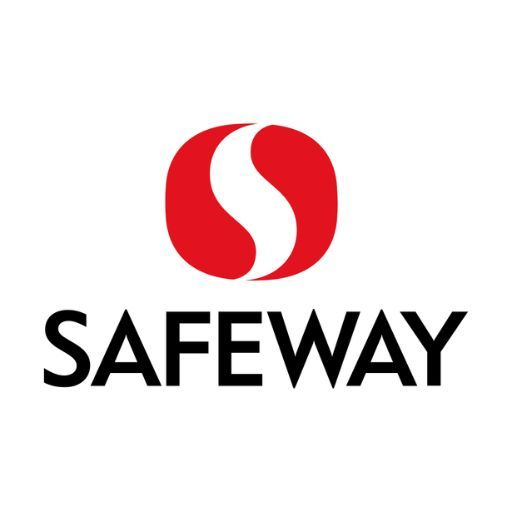
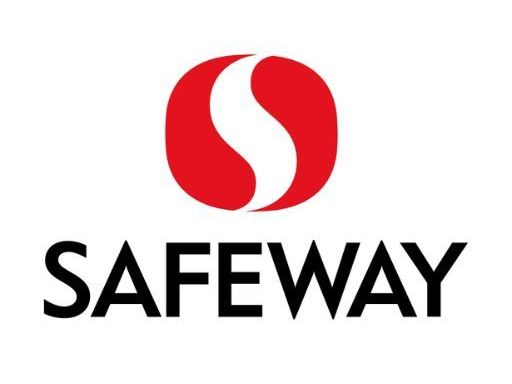
new imAGE SIZES

Changed region(s): [[0.0625, 0.5938, 0.9062, 0.8438], [0.3125, 0.125, 0.6875, 0.5625], [0.625, 0.4062, 0.6875, 0.5]]

diff --git a/components/allTripsGrid.tsx b/components/allTripsGrid.tsx
@@ -18,7 +18,7 @@ export function AllTripsGrid() {
         times: ["6:30am", '7:45am', '12:00pm']
     }, {
         title: "Supertstore",
-        image: '/realCanadian.jpg',
+        image: '/superstore.jpg',
         times: ["6:30am", '7:45am', '12:00pm']
     },
     {
@@ -129,7 +129,7 @@ export function AllTripsGrid() {
                 </div>
             </Tabs.Item>
             <Tabs.Item
-                label={<> <svg xmlns="http://www.w3.org/2000/svg" height="38" viewBox="0 -960 960 960" width="24"><path d="M640-80q-100 0-170-70t-70-170q0-100 70-170t170-70q100 0 170 70t70 170q0 100-70 170T640-80Zm0-80q66 0 113-47t47-113q0-66-47-113t-113-47q-66 0-113 47t-47 113q0 66 47 113t113 47Zm-480 0q-33 0-56.5-23.5T80-240v-304q0-8 1.5-16t4.5-16l80-184h-6q-17 0-28.5-11.5T120-800v-40q0-17 11.5-28.5T160-880h280q17 0 28.5 11.5T480-840v40q0 17-11.5 28.5T440-760h-6l66 152q-19 10-36 21t-32 25l-84-198h-96l-92 216v304h170q5 21 13.5 41.5T364-160H160Zm480-440q-42 0-71-29t-29-71q0-42 29-71t71-29v200q0-42 29-71t71-29q42 0 71 29t29 71H640Z" /></svg> School </>} value="4">
+                label={<> <svg xmlns="http://www.w3.org/2000/svg" height="24" viewBox="0 -960 960 960" width="24"><path d="M480-120 200-272v-240L40-600l440-240 440 240v320h-80v-276l-80 44v240L480-120Zm0-332 274-148-274-148-274 148 274 148Zm0 241 200-108v-151L480-360 280-470v151l200 108Zm0-241Zm0 90Zm0 0Z" /></svg> School </>} value="4">
                 <div className="animate-in fade-in md:px-24 px-10 sm:p-12  pt-4 slide-in-from-bottom-4 duration-1200 w-full ease-in-out">
                     <div className="grid grid-cols-1 justify-center sm:grid-cols-2 md:grid-cols-3 lg:grid-cols-4 xl:grid-cols-5 gap-6 justify-items-stretch w-full">
                         {groceryTrips?.map((trip) => (
@@ -139,7 +139,7 @@ export function AllTripsGrid() {
                 </div>
             </Tabs.Item>
             <Tabs.Item
-                label={<> <svg xmlns="http://www.w3.org/2000/svg" height="38" viewBox="0 -960 960 960" width="24"><path d="M640-80q-100 0-170-70t-70-170q0-100 70-170t170-70q100 0 170 70t70 170q0 100-70 170T640-80Zm0-80q66 0 113-47t47-113q0-66-47-113t-113-47q-66 0-113 47t-47 113q0 66 47 113t113 47Zm-480 0q-33 0-56.5-23.5T80-240v-304q0-8 1.5-16t4.5-16l80-184h-6q-17 0-28.5-11.5T120-800v-40q0-17 11.5-28.5T160-880h280q17 0 28.5 11.5T480-840v40q0 17-11.5 28.5T440-760h-6l66 152q-19 10-36 21t-32 25l-84-198h-96l-92 216v304h170q5 21 13.5 41.5T364-160H160Zm480-440q-42 0-71-29t-29-71q0-42 29-71t71-29v200q0-42 29-71t71-29q42 0 71 29t29 71H640Z" /></svg> Cinema </>} value="5w">
+                label={<> <svg xmlns="http://www.w3.org/2000/svg" height="24" viewBox="0 -960 960 960" width="24"><path d="m160-800 80 160h120l-80-160h80l80 160h120l-80-160h80l80 160h120l-80-160h120q33 0 56.5 23.5T880-720v480q0 33-23.5 56.5T800-160H160q-33 0-56.5-23.5T80-240v-480q0-33 23.5-56.5T160-800Zm0 240v320h640v-320H160Zm0 0v320-320Z" /></svg> Cinema </>} value="5w">
                 <div className="animate-in fade-in md:px-24 px-10  pt-4 sm:p-12 slide-in-from-bottom-4 duration-1200 w-full ease-in-out">
                     <div className="justify-center grid grid-cols-1 sm:grid-cols-2 md:grid-cols-3 lg:grid-cols-4 xl:grid-cols-5 gap-6 justify-items-stretch w-full">
                         {groceryTrips?.map((trip) => (
